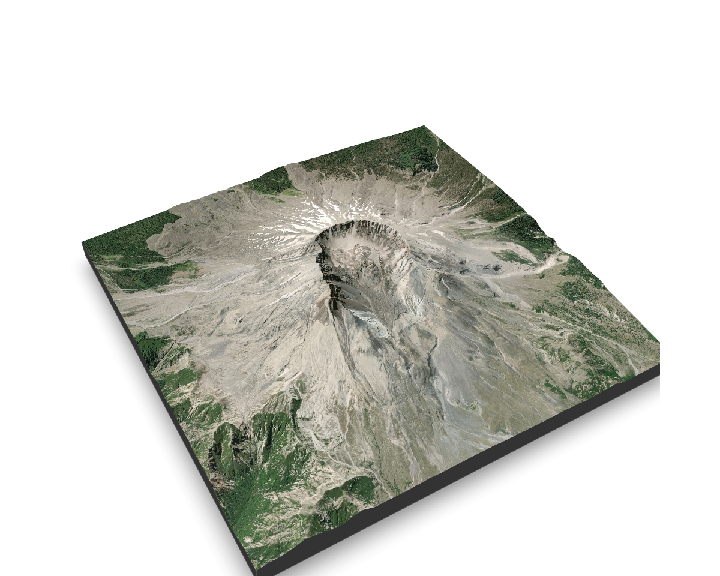
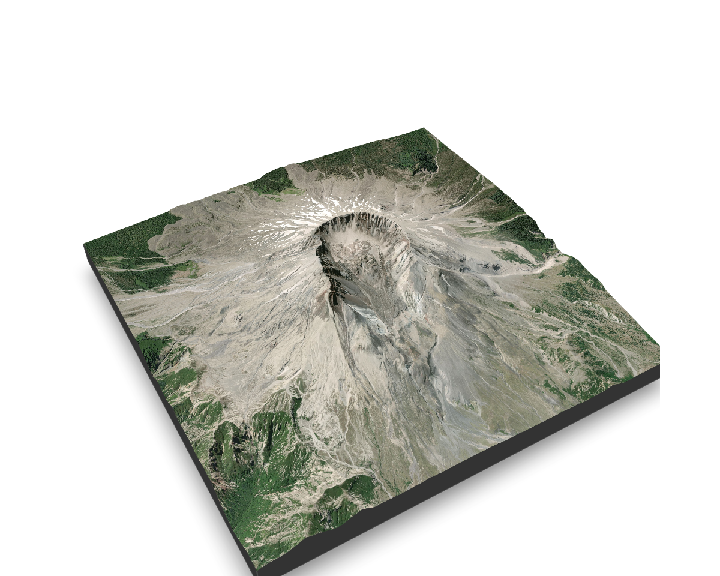
RM update

diff --git a/README.md b/README.md
@@ -11,8 +11,9 @@ coverage](https://codecov.io/gh/h-a-graham/raytrix/branch/main/graph/badge.svg)]
 <img src="man/figures/raytrixHEX_editLR.png" width="40%" />
 </p>
 
-A {rayshader} plugin providing a spatial framework and convenience
-functions for accessing spatial data. This is similar to and may replace
+A [{rayshader}](https://www.rayshader.com/index.html) plugin providing a
+spatial framework and convenience functions for accessing spatial data.
+This is similar to and may replace
 [{ravista}](https://github.com/h-a-graham/rayvista). But things are
 still very much under development.
 
@@ -70,7 +71,7 @@ get_canvas()$extent
 tc <- topo_matrix(20)
 ov <- map_drape(5)
 
-plot_3d(ov, tc, zscale=25*0.75,  windowsize = 1000,
+plot_3d(ov, tc, zscale=20*0.75,  windowsize = 1000,
         theta=150, phi=45, zoom=0.7, fov=50)
 render_snapshot(clear=TRUE)
 ```
@@ -81,13 +82,11 @@ Add some shading to the scene with {rayshader}
 
 ``` r
 # build in rayshader shading tools
-texture <- ov%>%
-  add_shadow(ray_shade(tc, zscale=20*0.75, sunangle=700, sunaltitude= 30,
-                       multicore = T), 0) %>%
-  add_shadow(texture_shade(tc, detail=0.6, contrast = 5, brightness = 10),0)
-
-plot_3d(texture, tc, zscale=25*0.75,  windowsize = 1000,
-        theta=150, phi=45, zoom=0.7, fov=50)
+ov %>%
+  add_shadow(., ray_shade(tc, zscale=20*0.75, 
+                          sunangle=700, sunaltitude= 30), 0) %>% 
+  plot_3d(., tc, zscale=20*0.75,  windowsize = 1000,
+          theta=150, phi=45, zoom=0.7, fov=50)
 
 render_snapshot(clear=TRUE)
 ```
